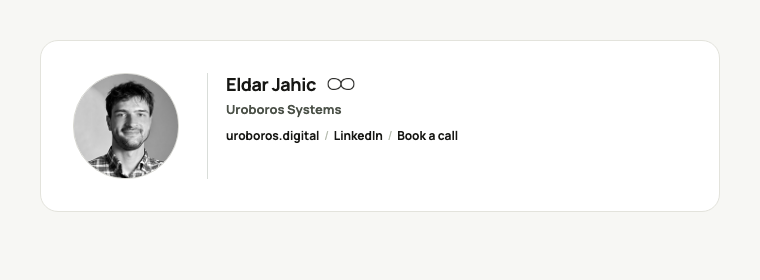
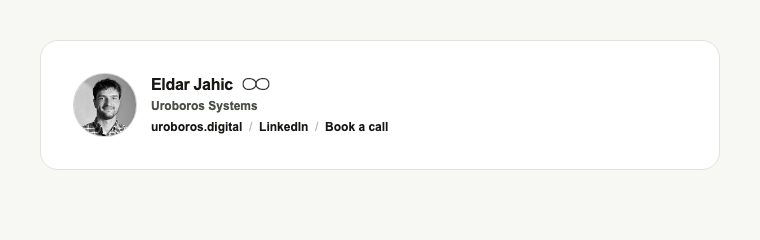
Make email signature mobile safe

Changed region(s): [[0.0908, 0.2625, 0.6053, 0.6417], [0.0908, 0.7, 0.9382, 0.7292], [0.0908, 0.1458, 0.9382, 0.175]]

diff --git a/public/brand/email-signature/signature-option-2-preview.html b/public/brand/email-signature/signature-option-2-preview.html
@@ -9,21 +9,21 @@
   </head>
   <body style="margin:0; padding:40px; background:#f7f7f4;">
     <div style="max-width:680px; padding:32px; background:#ffffff; border:1px solid #e3e3dc; border-radius:18px;">
-      <table role="presentation" cellpadding="0" cellspacing="0" border="0" style="width:100%; max-width:560px; font-family:Manrope, Arial, Helvetica, sans-serif; color:#171714; border-collapse:collapse;">
+      <table role="presentation" cellpadding="0" cellspacing="0" border="0" style="width:100%; max-width:340px; font-family:Manrope, Arial, Helvetica, sans-serif; color:#171714; border-collapse:collapse;">
         <tr>
-          <td width="116" valign="middle" style="width:116px; padding:0 18px 0 0; vertical-align:middle;">
+          <td width="68" valign="middle" style="width:68px; padding:0 10px 0 0; vertical-align:middle;">
             <img
               src="./eldar-portrait-bw.png"
-              width="104"
-              height="104"
+              width="62"
+              height="62"
               alt="Eldar Jahic"
-              style="display:block; width:104px; height:104px; border-radius:52px; border:1px solid #d8d8d2; object-fit:cover;"
+              style="display:block; width:62px; height:62px; border-radius:31px; border:1px solid #d8d8d2; object-fit:cover;"
             >
           </td>
-          <td valign="top" style="padding:0 0 0 18px; border-left:1px solid #d9ddd9;">
+          <td valign="middle" style="padding:0; vertical-align:middle;">
             <table role="presentation" cellpadding="0" cellspacing="0" border="0" style="border-collapse:collapse;">
               <tr>
-                <td valign="middle" style="padding:0 9px 5px 0; font-size:18px; line-height:22px; font-weight:700; letter-spacing:-0.02em; color:#171714;">
+                <td valign="middle" style="padding:0 7px 3px 0; font-size:16px; line-height:20px; font-weight:700; letter-spacing:-0.02em; color:#171714; white-space:nowrap;">
                   Eldar Jahic
                 </td>
                 <td valign="middle" style="padding:0 0 5px 0;">
@@ -38,16 +38,16 @@
               </tr>
             </table>
 
-            <div style="font-size:13px; line-height:18px; font-weight:700; color:#4b5148; margin:0 0 9px 0;">
+            <div style="font-size:12px; line-height:16px; font-weight:700; color:#4b5148; margin:0 0 5px 0;">
               Uroboros Systems
             </div>
 
-            <div style="font-size:12px; line-height:18px; color:#697064; margin:0;">
-              <a href="https://uroboros.digital" style="color:#171714; text-decoration:none; font-weight:700;">uroboros.digital</a>
+            <div style="font-size:12px; line-height:17px; color:#697064; margin:0; word-break:normal;">
+              <a href="https://uroboros.digital" style="color:#171714; text-decoration:none; font-weight:700; white-space:nowrap;">uroboros.digital</a>
               <span style="color:#b8beb2;">&nbsp;/&nbsp;</span>
-              <a href="https://www.linkedin.com/in/eldar-jahic-b04440200/" style="color:#171714; text-decoration:none; font-weight:700;">LinkedIn</a>
+              <a href="https://www.linkedin.com/in/eldar-jahic-b04440200/" style="color:#171714; text-decoration:none; font-weight:700; white-space:nowrap;">LinkedIn</a>
               <span style="color:#b8beb2;">&nbsp;/&nbsp;</span>
-              <a href="https://calendly.com/eldar-jahic-gb/30min" style="color:#171714; text-decoration:none; font-weight:700;">Book a call</a>
+              <a href="https://calendly.com/eldar-jahic-gb/30min" style="color:#171714; text-decoration:none; font-weight:700; white-space:nowrap;">Book a call</a>
             </div>
           </td>
         </tr>

diff --git a/public/brand/email-signature/signature-option-2.html b/public/brand/email-signature/signature-option-2.html
@@ -5,21 +5,21 @@
     <title>Eldar Jahic Email Signature</title>
   </head>
   <body style="margin:0; padding:24px; background:#ffffff;">
-    <table role="presentation" cellpadding="0" cellspacing="0" border="0" style="width:100%; max-width:560px; font-family:Manrope, Arial, Helvetica, sans-serif; color:#171714; border-collapse:collapse;">
+    <table role="presentation" cellpadding="0" cellspacing="0" border="0" style="width:100%; max-width:340px; font-family:Manrope, Arial, Helvetica, sans-serif; color:#171714; border-collapse:collapse;">
       <tr>
-        <td width="116" valign="middle" style="width:116px; padding:0 18px 0 0; vertical-align:middle;">
+        <td width="68" valign="middle" style="width:68px; padding:0 10px 0 0; vertical-align:middle;">
           <img
             src="https://uroboros.digital/brand/email-signature/eldar-portrait-bw.png"
-            width="104"
-            height="104"
+            width="62"
+            height="62"
             alt="Eldar Jahic"
-            style="display:block; width:104px; height:104px; border-radius:52px; border:1px solid #d8d8d2; object-fit:cover;"
+            style="display:block; width:62px; height:62px; border-radius:31px; border:1px solid #d8d8d2; object-fit:cover;"
           >
         </td>
-        <td valign="top" style="padding:0 0 0 18px; border-left:1px solid #d9ddd9;">
+        <td valign="middle" style="padding:0; vertical-align:middle;">
           <table role="presentation" cellpadding="0" cellspacing="0" border="0" style="border-collapse:collapse;">
             <tr>
-              <td valign="middle" style="padding:0 9px 5px 0; font-size:18px; line-height:22px; font-weight:700; letter-spacing:-0.02em; color:#171714;">
+              <td valign="middle" style="padding:0 7px 3px 0; font-size:16px; line-height:20px; font-weight:700; letter-spacing:-0.02em; color:#171714; white-space:nowrap;">
                 Eldar Jahic
               </td>
               <td valign="middle" style="padding:0 0 5px 0;">
@@ -34,16 +34,16 @@
             </tr>
           </table>
 
-          <div style="font-size:13px; line-height:18px; font-weight:700; color:#4b5148; margin:0 0 9px 0;">
+          <div style="font-size:12px; line-height:16px; font-weight:700; color:#4b5148; margin:0 0 5px 0;">
             Uroboros Systems
           </div>
 
-          <div style="font-size:12px; line-height:18px; color:#697064; margin:0;">
-            <a href="https://uroboros.digital" style="color:#171714; text-decoration:none; font-weight:700;">uroboros.digital</a>
+          <div style="font-size:12px; line-height:17px; color:#697064; margin:0; word-break:normal;">
+            <a href="https://uroboros.digital" style="color:#171714; text-decoration:none; font-weight:700; white-space:nowrap;">uroboros.digital</a>
             <span style="color:#b8beb2;">&nbsp;/&nbsp;</span>
-            <a href="https://www.linkedin.com/in/eldar-jahic-b04440200/" style="color:#171714; text-decoration:none; font-weight:700;">LinkedIn</a>
+            <a href="https://www.linkedin.com/in/eldar-jahic-b04440200/" style="color:#171714; text-decoration:none; font-weight:700; white-space:nowrap;">LinkedIn</a>
             <span style="color:#b8beb2;">&nbsp;/&nbsp;</span>
-            <a href="https://calendly.com/eldar-jahic-gb/30min" style="color:#171714; text-decoration:none; font-weight:700;">Book a call</a>
+            <a href="https://calendly.com/eldar-jahic-gb/30min" style="color:#171714; text-decoration:none; font-weight:700; white-space:nowrap;">Book a call</a>
           </div>
         </td>
       </tr>
